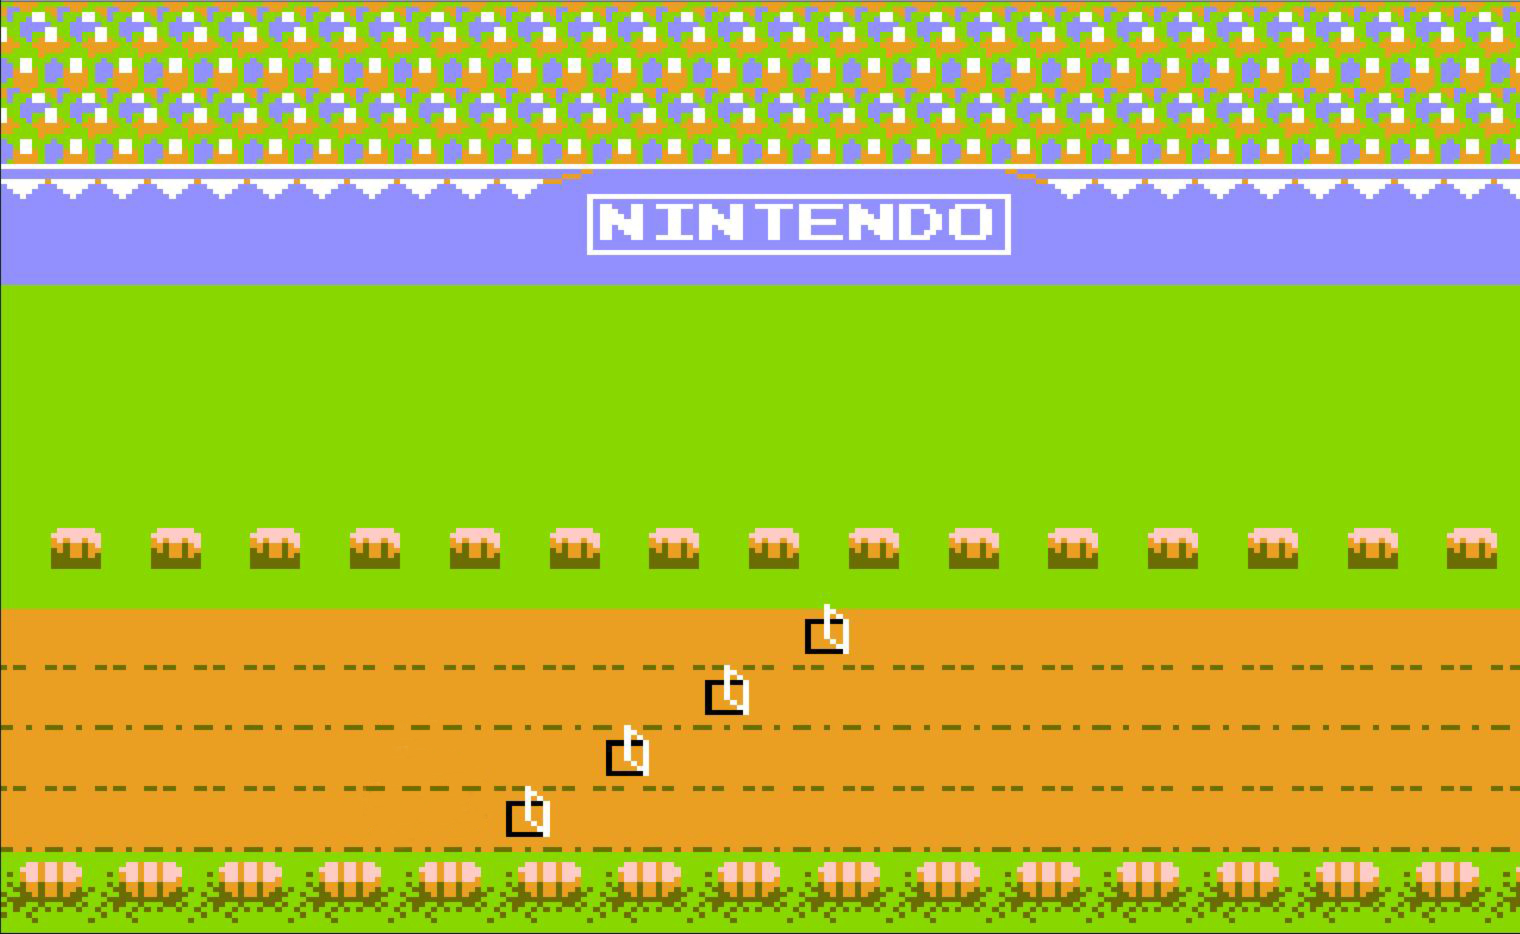
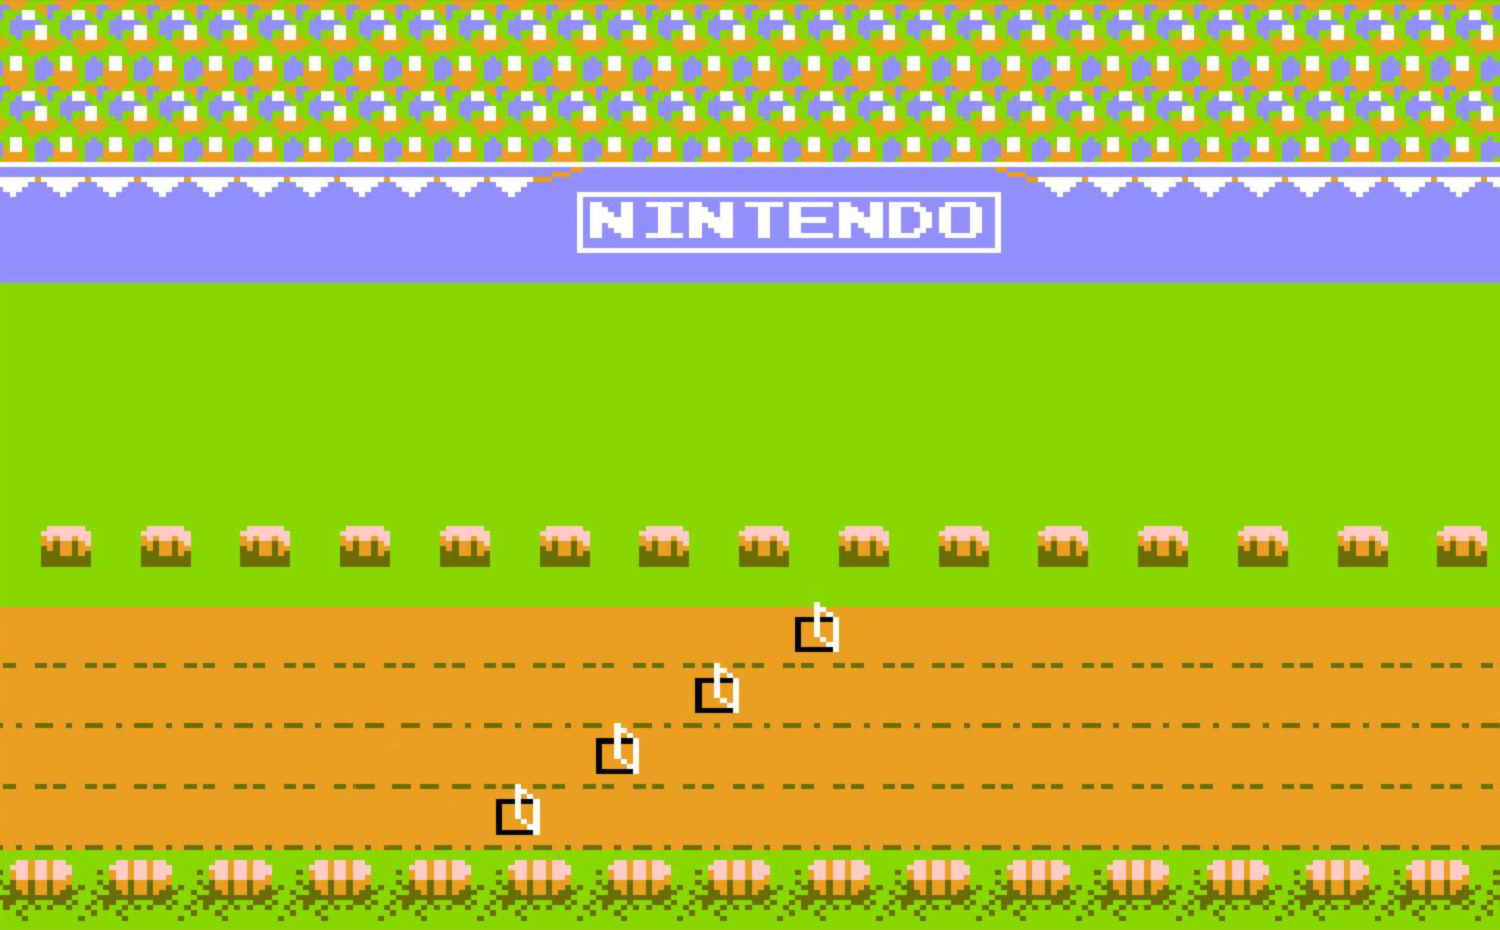
Style adjustments

diff --git a/styles.css b/styles.css
@@ -8,7 +8,7 @@ div.container {
 
 table.racer_table {
   position: absolute;
-  top: 63%;
+  top: 62%;
 
 }
 
@@ -16,31 +16,27 @@ table.racer_table td {
   height: 50px;
   width: 50px;
   background: none;
+  display:inline-block;
 }
 
 
 #player1_strip td.active {
   background: url(img/bike_red.png) no-repeat;
-  display: block;
-  z-index: 1;
   padding: 5px 0;
 }
 
 #player2_strip td.active {
   background: url(img/bike_blue.png) no-repeat;
-  z-index: 2;
   padding: 5px 0;
 }
 
 #player3_strip td.active {
   background: url(img/bike_green.png) no-repeat;
-  z-index: 3;
   padding: 5px 0;
 }
 
 #player4_strip td.active {
   background: url(img/bike_red.png) no-repeat;
-  z-index: 4;
   padding: 5px 0;
 }
 

diff --git a/script.js b/script.js
@@ -11,7 +11,7 @@ function buildTrack(size) {
 }
 
 function acceptKeyToMove() {
-  buildTrack(70);
+  buildTrack(35);
   $(document).keyup(function(event) {
     if (gameOver()) {
       $(document).unbind('keyup');
